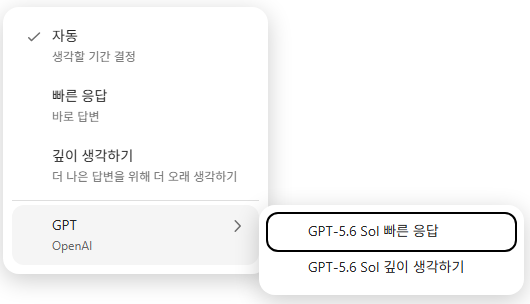
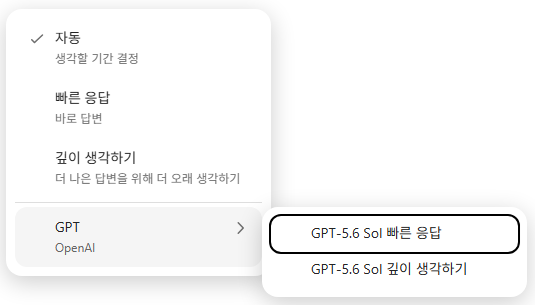
양옆 배경을 반계리 은행나무 드론샷·가족 셀카로 교체, 스크롤 애니메이션 제거, 모델 TIP 이미지 교체

diff --git a/index.html b/index.html
@@ -28,25 +28,22 @@
   }
   .wrap{max-width:900px;margin:0 auto;padding:0 20px;}
 
-  /* ───────── 양옆 단풍 가로수길: 운전석 시점 사진을 스크롤할수록 소실점으로 확대 ───────── */
-  .roadside{
-    position:fixed;inset:0;z-index:0;pointer-events:none;overflow:hidden;background:#7A3A22;
-  }
-  .roadside .road{
-    position:absolute;inset:0;
-    background:url("image/road_pov.jpg") center 45%/cover no-repeat;
-    transform-origin:50% 45%;will-change:transform;
-  }
-  /* 화면 가장자리로 갈수록 살짝 어둡게(속도감) */
-  .roadside::after{
+  /* ───────── 양옆 고정 배경: 왼쪽 반계리 은행나무 드론샷, 오른쪽 가족 셀카 ───────── */
+  .sides{position:fixed;inset:0;z-index:0;pointer-events:none;overflow:hidden;background:#3A2410;}
+  .sides .side{position:absolute;top:0;bottom:0;width:50%;background-size:cover;background-repeat:no-repeat;}
+  /* 본문이 가운데를 가리므로 바깥쪽 가장자리에 볼거리가 오도록 정렬 */
+  .sides .side.l{left:0;background-image:url("image/side_drone.jpg");background-position:left center;}
+  .sides .side.r{right:0;background-image:url("image/side_selfie.jpg");background-position:right center;}
+  /* 본문과 만나는 안쪽을 살짝 어둡게 해 본문이 떠 보이게 */
+  .sides::after{
     content:"";position:absolute;inset:0;
-    background:radial-gradient(ellipse 75% 85% at 50% 45%, transparent 55%, rgba(40,15,8,.35) 100%);
+    background:linear-gradient(to right, transparent 25%, rgba(40,15,8,.45) 50%, transparent 75%);
   }
   .page{position:relative;z-index:1;max-width:900px;margin:0 auto;background:var(--paper);}
   @media(min-width:1100px){
-    .page{box-shadow:0 0 70px rgba(40,15,8,.45);}
+    .page{box-shadow:0 0 70px rgba(40,15,8,.5);}
   }
-  @media(max-width:1099px){ .roadside{display:none;} }
+  @media(max-width:1099px){ .sides{display:none;} }
 
   /* ───────── 히어로: 앞유리 너머 가족 드라이브 + HTML 텍스트 ───────── */
   .hero{
@@ -350,9 +347,10 @@
 
 <!-- ▼▼▼ 게시판에 붙여넣을 때는 body 내부 전체를 복사하세요 ▼▼▼ -->
 
-<!-- 양옆 단풍 가로수길 (넓은 화면에서만) -->
-<div class="roadside" aria-hidden="true">
-  <div class="road"></div>
+<!-- 양옆 고정 배경 (넓은 화면에서만) -->
+<div class="sides" aria-hidden="true">
+  <div class="side l"></div>
+  <div class="side r"></div>
 </div>
 
 <div class="page">
@@ -803,29 +801,6 @@
   });
 
   buildPrompt();
-
-  // 가로수길: 스크롤 진행만큼 길 끝(소실점)으로 다가가듯 확대
-  var road = document.querySelector('.roadside .road');
-  if(road){
-    var ZOOM = 0.35; // 맨 아래까지 내렸을 때 1.35배 — 천천히 다가가는 정도
-    var cur = 1, running = false;
-    function target(){
-      var max = document.documentElement.scrollHeight - window.innerHeight;
-      return 1 + (max > 0 ? Math.min(window.scrollY / max, 1) : 0) * ZOOM;
-    }
-    // 스크롤을 바로 따라가지 않고 부드럽게 감속하며 따라감
-    function drive(){
-      var goal = target();
-      cur += (goal - cur) * 0.06;
-      if(Math.abs(goal - cur) < 0.0005){ cur = goal; running = false; }
-      road.style.transform = 'scale(' + cur.toFixed(4) + ')';
-      if(running) requestAnimationFrame(drive);
-    }
-    window.addEventListener('scroll', function(){
-      if(!running){ running = true; requestAnimationFrame(drive); }
-    }, { passive:true });
-    cur = target(); road.style.transform = 'scale(' + cur + ')';
-  }
 })();
 </script>
 </body>
